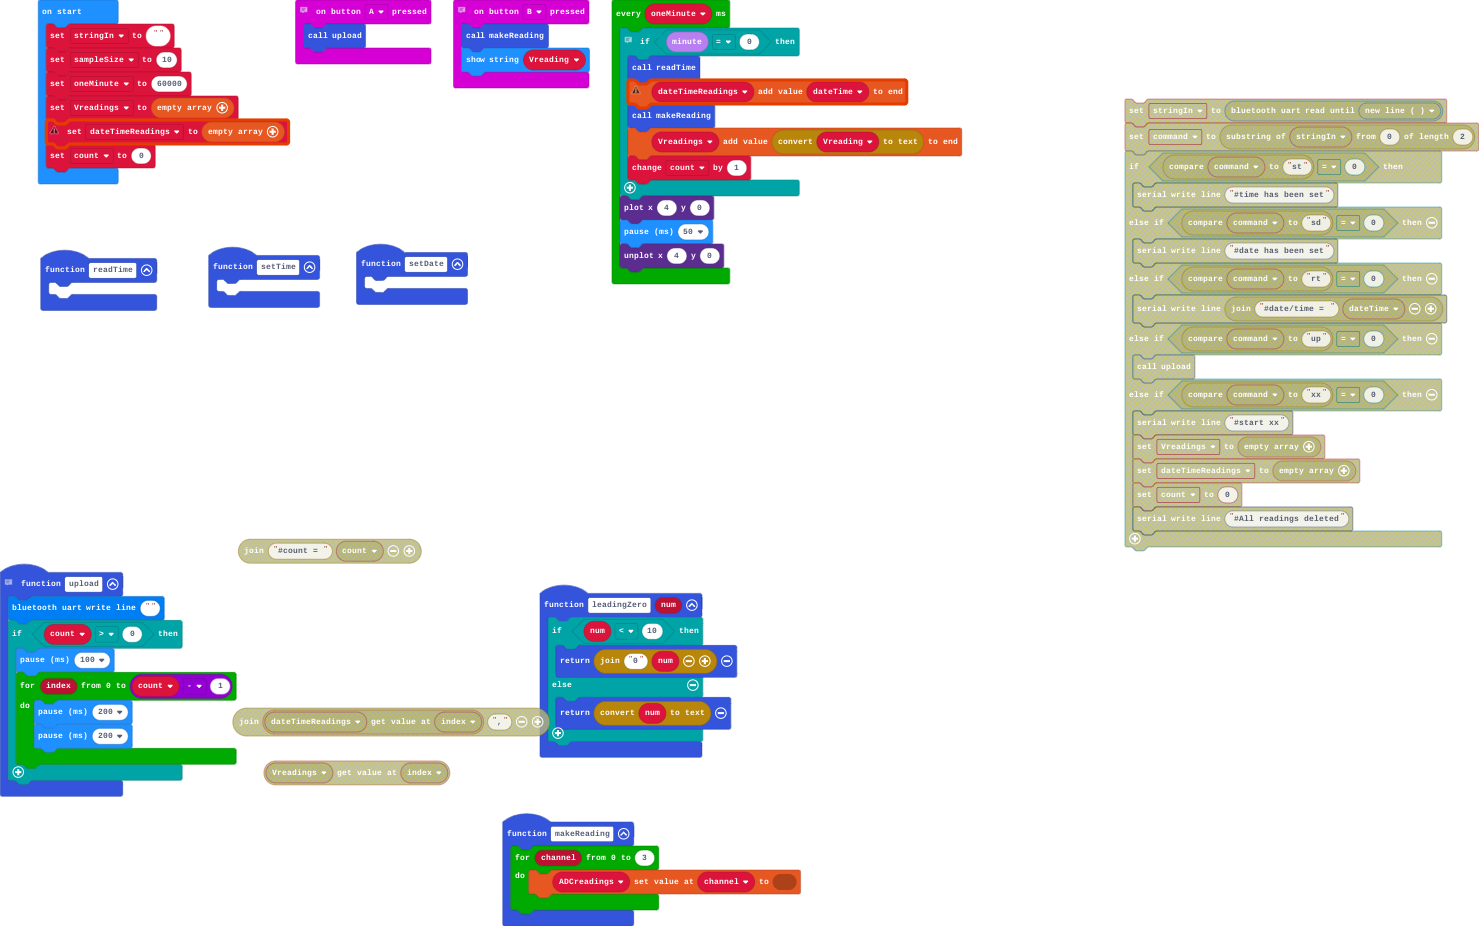
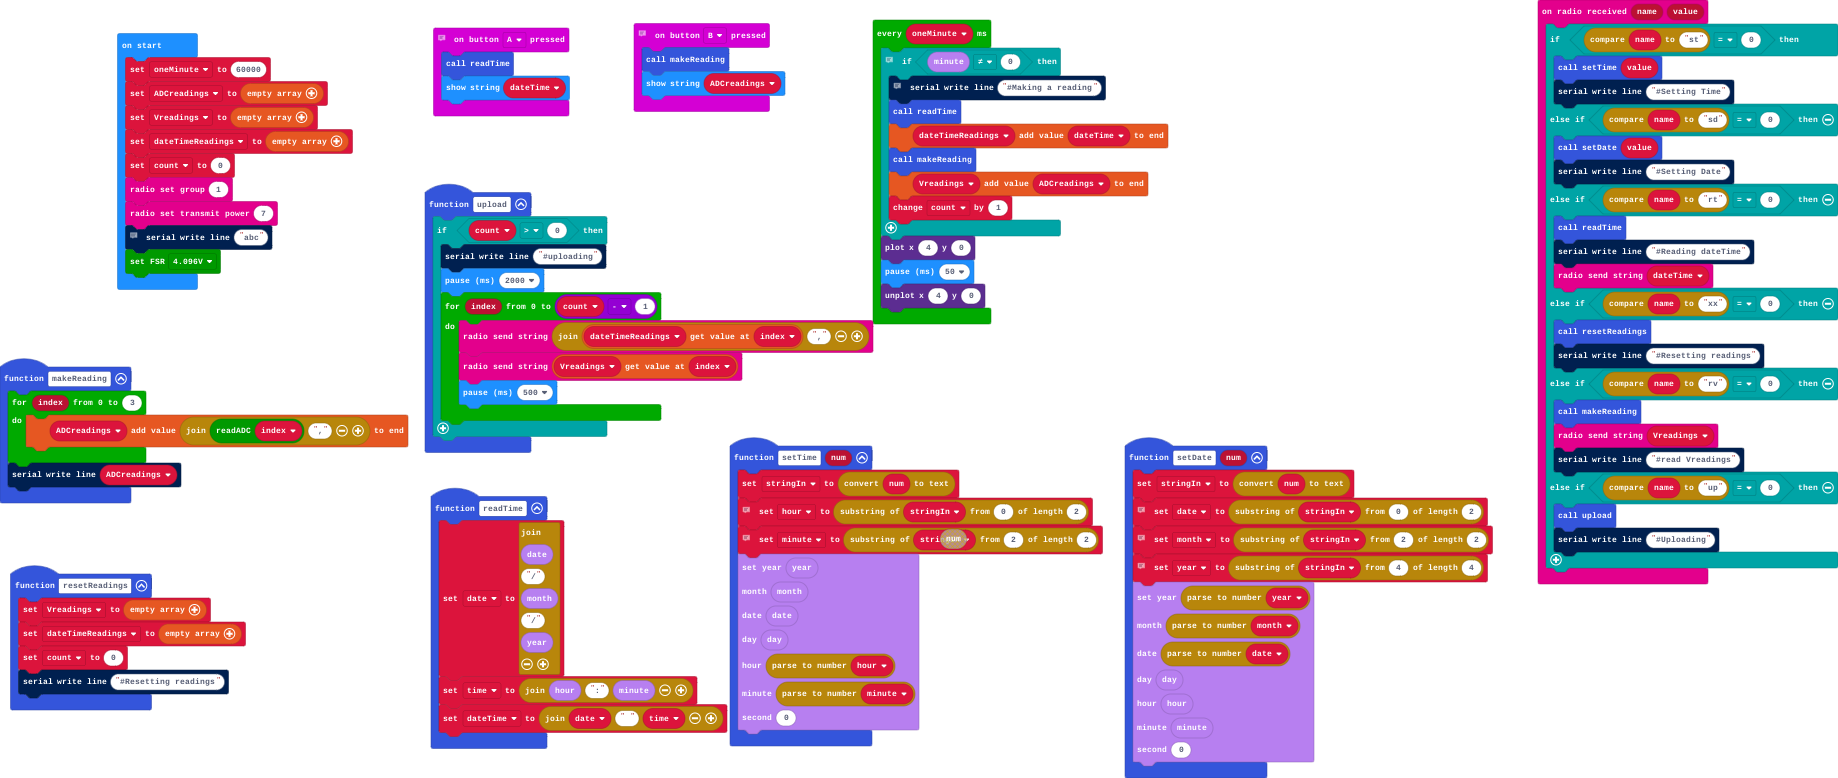
Changed to use radio (not BT)

diff --git a/main.ts b/main.ts
@@ -1,61 +1,129 @@
 function readTime () {
-	
+    date = "" + DS3231.date() + "/" + DS3231.month() + "/" + DS3231.year()
+    time = "" + DS3231.hour() + ":" + DS3231.minute()
+    dateTime = "" + date + " " + time
 }
 function makeReading () {
-    for (let channel = 0; channel <= 3; channel++) {
-        let ADCreadings: number[] = []
-        ADCreadings[channel] = 0
+    for (let index = 0; index <= 3; index++) {
+        ADCreadings.push("" + ADS1115.readADC(index) + ",")
     }
+    serial.writeLine("" + (ADCreadings))
 }
-function leadingZero (num: number) {
-    if (num < 10) {
-        return "0" + num
-    } else {
-        return convertToText(num)
-    }
+function resetReadings () {
+    Vreadings = []
+    dateTimeReadings = []
+    count = 0
+    serial.writeLine("#Resetting readings")
 }
-// Upload
+// Instant dateTime
 input.onButtonPressed(Button.A, function () {
-    upload()
+    readTime()
+    basic.showString(dateTime)
 })
-function setDate () {
-	
+function setDate (num: number) {
+    stringIn = convertToText(num)
+    // the first 2 characters after command
+    date = stringIn.substr(0, 2)
+    // the next 2 characters
+    month = stringIn.substr(2, 2)
+    // the last 4 characters
+    year = stringIn.substr(4, 4)
+    DS3231.dateTime(
+    parseFloat(year),
+    parseFloat(month),
+    parseFloat(date),
+    DS3231.day(),
+    DS3231.hour(),
+    DS3231.minute(),
+    0
+    )
 }
-// Upload all readings
 function upload () {
-    bluetooth.uartWriteLine("")
     if (count > 0) {
-        basic.pause(100)
+        serial.writeLine("#uploading")
+        basic.pause(2000)
         for (let index = 0; index <= count - 1; index++) {
-            basic.pause(200)
-            basic.pause(200)
+            radio.sendString("" + dateTimeReadings[index] + ",")
+            radio.sendString("" + (Vreadings[index]))
+            basic.pause(500)
         }
     }
 }
-function setTime () {
-	
+function setTime (num: number) {
+    stringIn = convertToText(num)
+    // the first 2 characters after command
+    hour = stringIn.substr(0, 2)
+    // the next 2 characters command
+    minute = stringIn.substr(2, 2)
+    DS3231.dateTime(
+    DS3231.year(),
+    DS3231.month(),
+    DS3231.date(),
+    DS3231.day(),
+    parseFloat(hour),
+    parseFloat(minute),
+    0
+    )
 }
-// Show ADC readings
+// Instant Vreadings
 input.onButtonPressed(Button.B, function () {
     makeReading()
-    basic.showString("" + (Vreading))
+    basic.showString("" + (ADCreadings))
 })
-let Vreading = 0
-let count = 0
+radio.onReceivedValue(function (name, value) {
+    if (name.compare("st") == 0) {
+        setTime(value)
+        serial.writeLine("#Setting Time")
+    } else if (name.compare("sd") == 0) {
+        setDate(value)
+        serial.writeLine("#Setting Date")
+    } else if (name.compare("rt") == 0) {
+        readTime()
+        serial.writeLine("#Reading dateTime")
+        radio.sendString(dateTime)
+    } else if (name.compare("xx") == 0) {
+        resetReadings()
+        serial.writeLine("#Resetting readings")
+    } else if (name.compare("rv") == 0) {
+        makeReading()
+        radio.sendString("" + (Vreadings))
+        serial.writeLine("#read Vreadings")
+    } else if (name.compare("up") == 0) {
+        upload()
+        serial.writeLine("#Uploading")
+    }
+})
+let minute = ""
+let hour = ""
+let year = ""
+let month = ""
 let stringIn = ""
-let sampleSize = 10
+let dateTime = ""
+let time = ""
+let date = ""
+let count = 0
+let dateTimeReadings: string[] = []
+let Vreadings: string[][] = []
+let ADCreadings: string[] = []
 let oneMinute = 60000
-let Vreadings: string[] = []
-let dateTimeReadings: number = []
+ADCreadings = []
+Vreadings = []
+dateTimeReadings = []
 count = 0
+radio.setGroup(1)
+radio.setTransmitPower(7)
+// Debug - start serial
+serial.writeLine("abc")
+ADS1115.setFSR(FSR.V4)
 loops.everyInterval(oneMinute, function () {
     // Take readings once per hour
-    if (DS3231.minute() == 0) {
-        let dateTime = 0
+    if (DS3231.minute() != 0) {
+        // Debug - make a reading
+        serial.writeLine("#Making a reading")
         readTime()
         dateTimeReadings.push(dateTime)
         makeReading()
-        Vreadings.push(convertToText(Vreading))
+        Vreadings.push(ADCreadings)
         count += 1
     }
     led.plot(4, 0)
